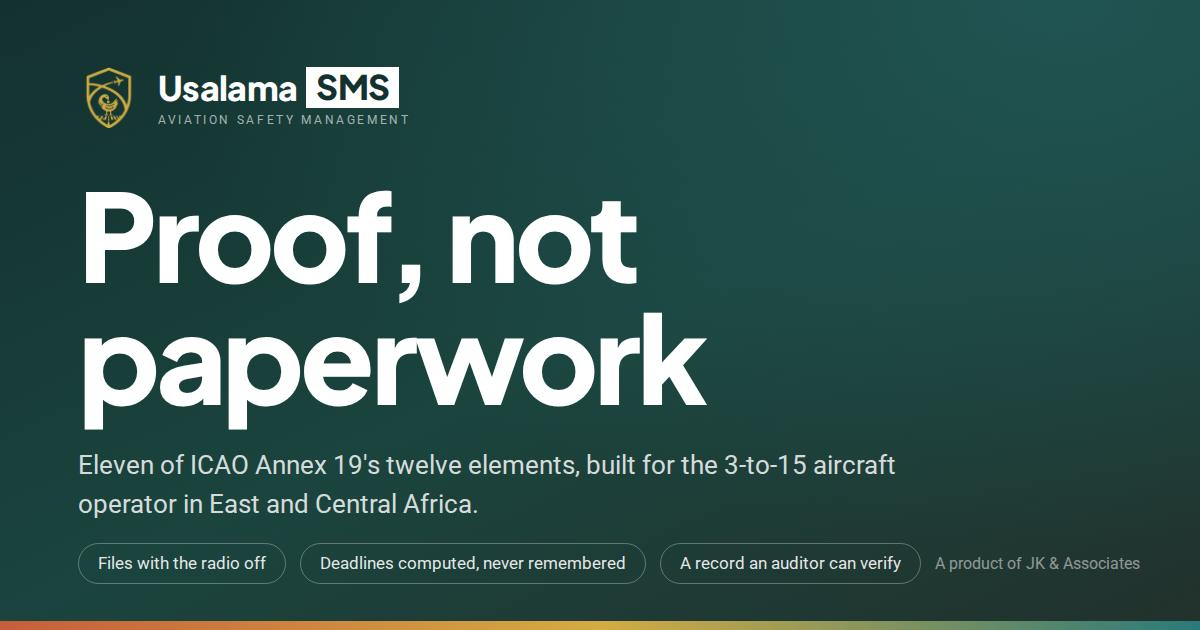
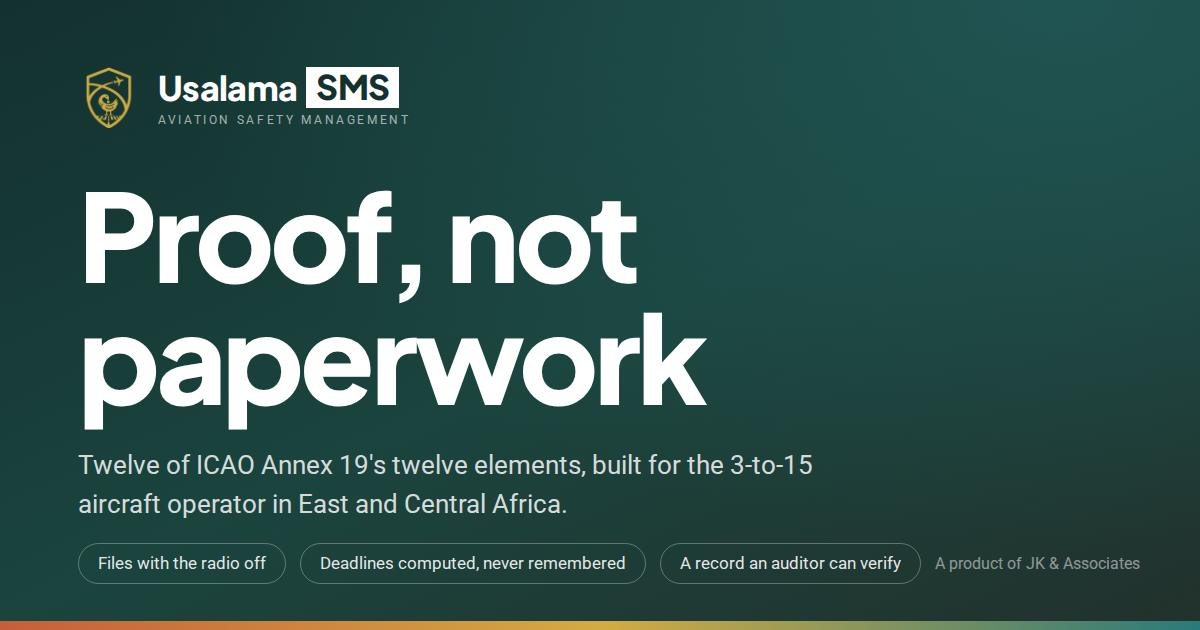
The share card understated the product by a whole element
check:claims ties the coverage figure to the table and reads it back off
the page a customer sees. Its own comment explains why that surface was
added: "/about is read by whoever is deciding whether to pay for it, and
nothing checked it at all", and it had drifted.

It was one surface short, in the direction that costs most. NOBODY
REACHES /about WITHOUT FIRST SEEING THE SHARE CARD.

Measured today, with /about correctly saying 12 of 12 and this gate
green:

  apps/web/src/index.html    description       "Eleven of ICAO Annex 19's
                             og:description     twelve elements"
                             twitter:description
                             og:image:alt      "...reading eleven of ICAO"
  scripts/og-card-content.mjs                  "Eleven of ..." — and this
                             is what og-card.jpg is RENDERED FROM, so the
                             figure was in the pixels too

So every LinkedIn post, every WhatsApp forward and every Slack unfurl of
this domain understated the product by a whole element, while the page
behind them was right and checked. That is charter rule 10 landing one
layer further out than the layer that was fixed — a number typed rather
than computed, on the first thing a prospect ever sees.

The gate now reads all three sources. It was extended BEFORE the text
was corrected, and went red on the real defect rather than on a
hypothetical one. Each source is independently covered — restoring
[…]

Changed region(s): [[0.0617, 0.7238, 0.7708, 0.754], [0.0617, 0.7841, 0.4933, 0.8143]]

diff --git a/apps/web/src/index.html b/apps/web/src/index.html
@@ -50,7 +50,7 @@
          ================================================================ -->
     <meta
       name="description"
-      content="Eleven of ICAO Annex 19's twelve elements, built for the 3-to-15 aircraft
+      content="Twelve of ICAO Annex 19's twelve elements, built for the 3-to-15 aircraft
                operator in East and Central Africa. Files with the radio off, computes every
                reporting deadline, and holds a record an auditor can verify."
     />
@@ -63,7 +63,7 @@
     />
     <meta
       property="og:description"
-      content="Eleven of ICAO Annex 19's twelve elements, built for the 3-to-15 aircraft
+      content="Twelve of ICAO Annex 19's twelve elements, built for the 3-to-15 aircraft
                operator in East and Central Africa. Files with the radio off, computes every
                reporting deadline, and holds a record an auditor can verify."
     />
@@ -73,7 +73,7 @@
     <meta
       property="og:image:alt"
       content="The UsalamaSMS share card: the gold crested-crane mark on a dark green
-               ground, headed Proof, not paperwork, above a line reading eleven of ICAO
+               ground, headed Proof, not paperwork, above a line reading twelve of ICAO
                Annex 19's twelve elements, built for the 3-to-15 aircraft operator in East
                and Central Africa, and three marks reading files with the radio off,
                deadlines computed never remembered, and a record an auditor can verify."
@@ -86,7 +86,7 @@
     />
     <meta
       name="twitter:description"
-      content="Eleven of ICAO Annex 19's twelve elements, for the 3-to-15 aircraft operator in
+      content="Twelve of ICAO Annex 19's twelve elements, for the 3-to-15 aircraft operator in
                East and Central Africa."
     />
     <meta name="twitter:image" content="https://usalamasms.com/og-card.jpg" />
